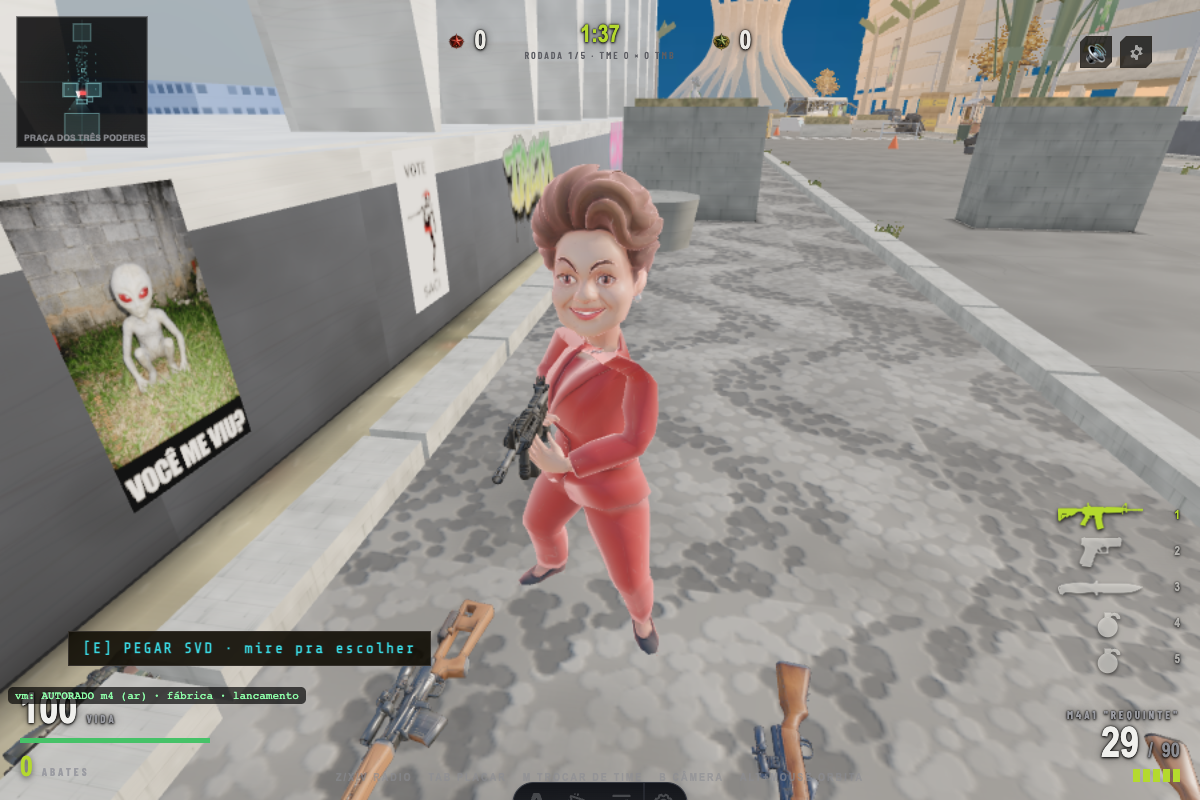
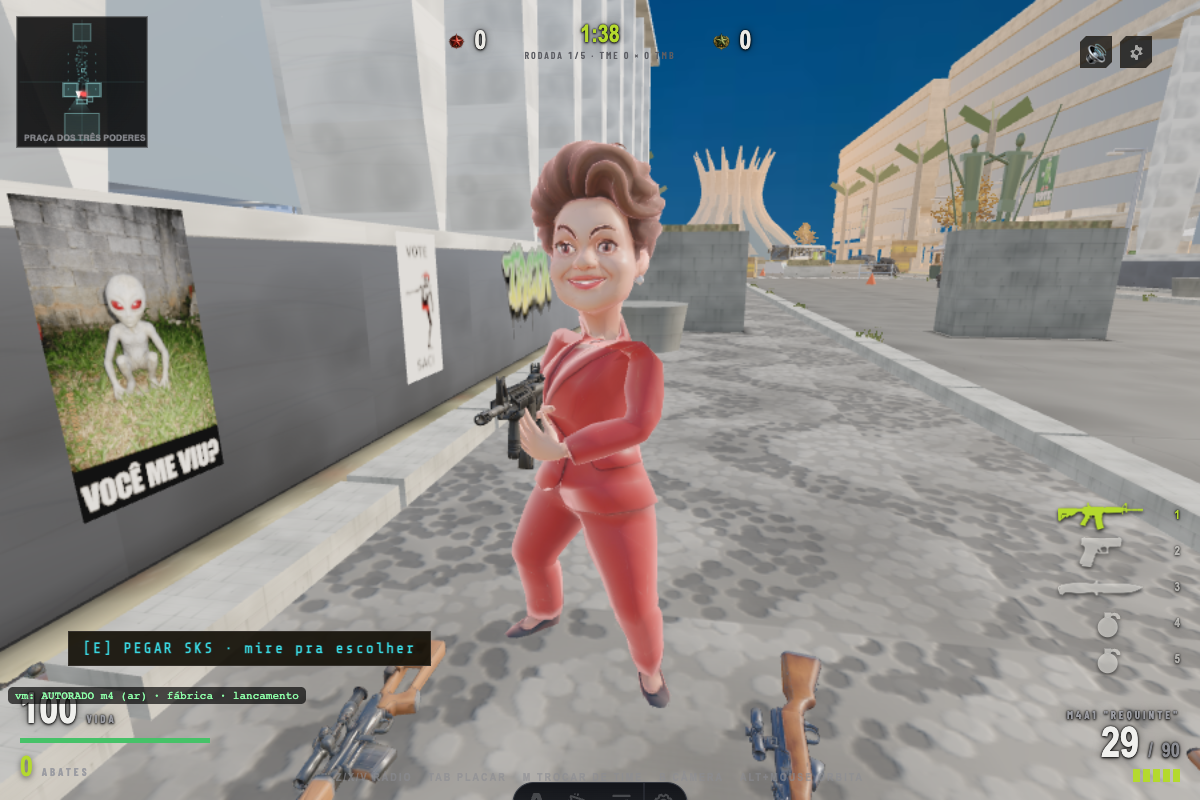
Baixa a camera orbitada e atualiza capturas da Dama
Agent: Codex (GPT-6)

diff --git a/public/js/game.js b/public/js/game.js
@@ -5877,7 +5877,7 @@ export class Game {
     const TP_UP = shoulder ? 0.10 : 0.18;
     const TP_SIDE = (shoulder ? 0.34 : 0.28) + (shoulder ? 0.16 : 0.22) * ads;
     cam.position.set(p.pos.x, p.pos.y + eye, p.pos.z).addScaledVector(fwd, -TP_DIST).addScaledVector(right, TP_SIDE);
-    cam.position.y += TP_UP;
+    cam.position.y += TP_UP - 0.45 * orbitBlend;
     const gy = this.world.groundHeightAt(cam.position.x, cam.position.z, cam.position.y) + 0.2;
     if (cam.position.y < gy) cam.position.y = gy;   // não atravessa o chão
     // Cruz no alvo do raio autoritativo a distância de combate; o tiro continua

diff --git a/docs/reports/PR773-CONTINUATION.md b/docs/reports/PR773-CONTINUATION.md
@@ -7,12 +7,12 @@ No worktree `worktrees/politicos`, entregar o PR [#773](https://github.com/coros
 ## Estado recuperável
 
 - Branch: `feat/elenco-politicos`; base de trabalho `b2375303e0a88cecaffbbc92e01b9351d0190567` (PR draft aberto, conflito com `main` visto em 2026-10-06).
-- Checkpoints: `a708f2557` (órbita, retículo e teste de navegador), `2749a86fa` (remoção de Agitador e dados derivados) e `1574fed2f` (avatares 3D). Este relatório e as capturas de evidência serão o próximo checkpoint; `client/` principal não foi editado.
+- Checkpoints: `a708f2557` (órbita, retículo e teste de navegador), `2749a86fa` (remoção de Agitador e dados derivados), `1574fed2f` (avatares 3D) e `fea36437d` (primeira versão deste relatório/capturas). O HEAD seguinte baixa a câmera orbitada e substitui as capturas; `client/` principal não foi editado. A branch local está à frente do PR remoto, que ainda aponta para `b2375303e`.
 - O pedido original e o PR permanecem o objetivo inteiro. A etapa atual é revisar e validar as alterações antes de checkpoint e atualização do PR.
 
 ## Feito e verificado localmente
 
[2 lines of base64/hex data omitted]
 - `Agitador` saiu do elenco, da arma inicial, do conjunto GLB, do manifesto de animações e dos assets rastreados. A sonda completa foi regenerada com 61 personagens, e `foot-offsets.json` não tem mais entrada órfã. `git grep` não encontra referência restante fora deste relatório.
[1 lines of base64/hex data omitted]
 - `npm run syntax`, `node tools/gen-anim-manifest.mjs --check`, `node tools/gen-foot-offsets.mjs --check`, o teste de navegador via eventos de mouse do DOM e `git diff --check` passaram. Log local do último teste: `/private/tmp/pr773-orbit-dispatch.log`. `char-thumbnail-contract-check.mjs` reprova seis personagens preexistentes fora deste lote (camera-roxa, programador-virado, motoca-cachorro-loko, doidinho-bairro, designer-ux, lenda-lanhouse); nenhuma falha cita os oito políticos.
@@ -23,7 +23,7 @@ No worktree `worktrees/politicos`, entregar o PR [#773](https://github.com/coros
 - Uma tentativa inicial de simplificar materiais foi descartada por remover a textura de roughness (regressão histórica registrada em `tools/char-plastico.mjs`).
 - A tentativa seguinte de comprimir cabeças e troncos preservou materiais/UV/rig, mas a revisão adversarial independente **reprovou** as proporções: Barbudo e Ministro ainda parecem largos (C1 torso/altura 0,355 e 0,314 na tentativa), e o cabelo da Dama continuou como tufo alto. A sonda C3 também mostrou piora no pé durante animações, incluindo Dama/walk acima do limiar compensável. Os oito GLB experimentais foram restaurados ao commit base e o script experimental saiu do PR; cópia temporária em `/private/tmp/pr773-rejected-sculpt.mjs`, sem valor de entrega. **Não relançar essa deformação como solução.** Os GLB originais têm C1 cabeça/altura Barbudo 0,285, Dama 0,295, Ministro 0,299; torso/altura Barbudo 0,348, Ministro 0,310. Fonte: `/private/tmp/pr773-char-probe-restored.log` e `tools/eval/char_probe.json`.
 - Dama e os outros políticos ainda exigem substituição/revisão real do GLB. O cabelo não foi corrigido. Mint MCP está desabilitado; Blender headless caiu neste ambiente. Antes de aceitar qualquer novo modelo, comparar frente/lado e movimento no jogo, preservar a identidade, rig, materiais PBR, armas e pés no chão, regenerar os oito avatares e os vídeos/artes derivados, e pedir crítica adversarial independente. A revisão atual aprovou a correspondência dos avatares aos GLB, mas reprovou a silhueta e o cabelo.
-- O PR ainda mostra conflito com `main`. Conferir novamente o estado remoto depois do checkpoint. Push/merge ainda não ocorreram.
+- Em 2026-10-06 o PR remoto ainda está draft/aberto em `b2375303e` e conflita com `main` em oito arquivos de documentação: `AGENTS.md`, `README.md`, `docs/docs/{arquitetura,comecando,quality-gates}.md` e as três páginas homônimas em `docs/i18n/en/docusaurus-plugin-content-docs/current/`. `git merge-tree` foi somente leitura; nenhum merge/rebase/push ocorreu.
 
 ## Próximo passo
 
